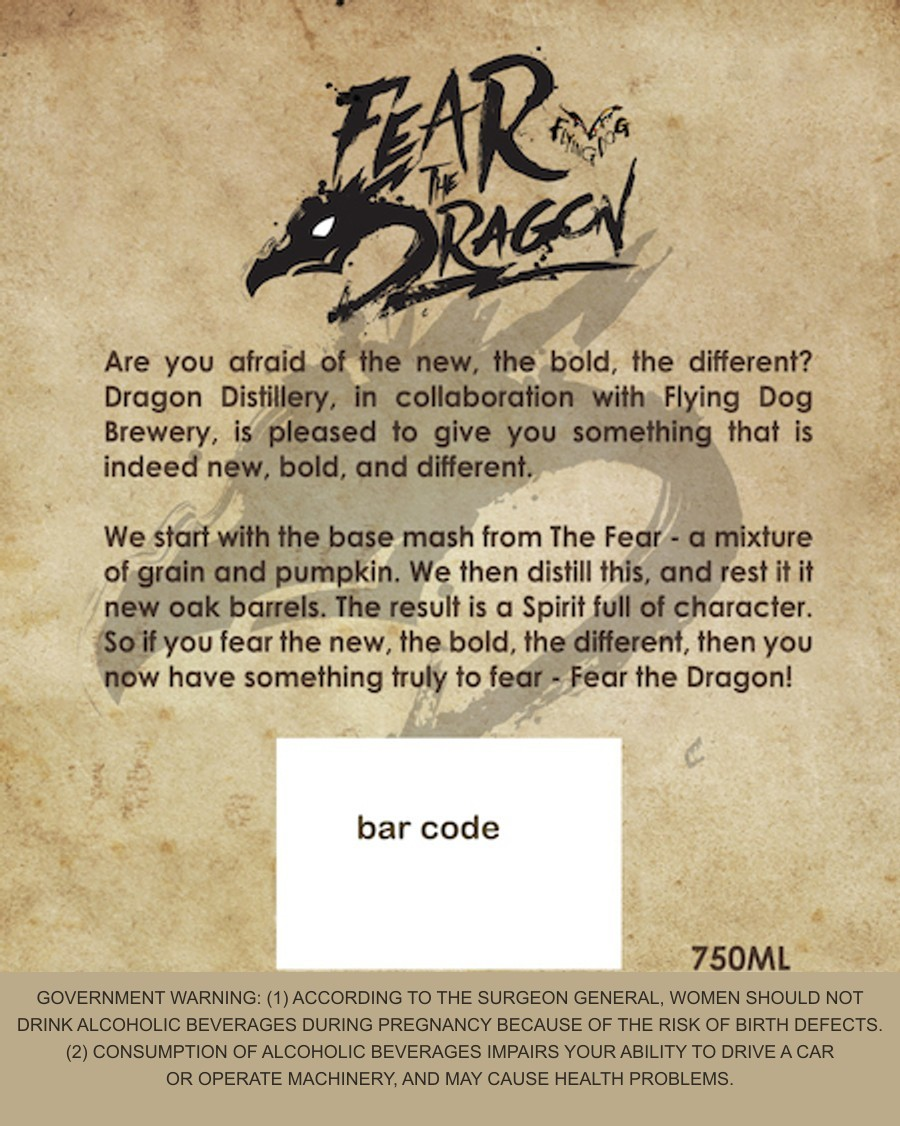
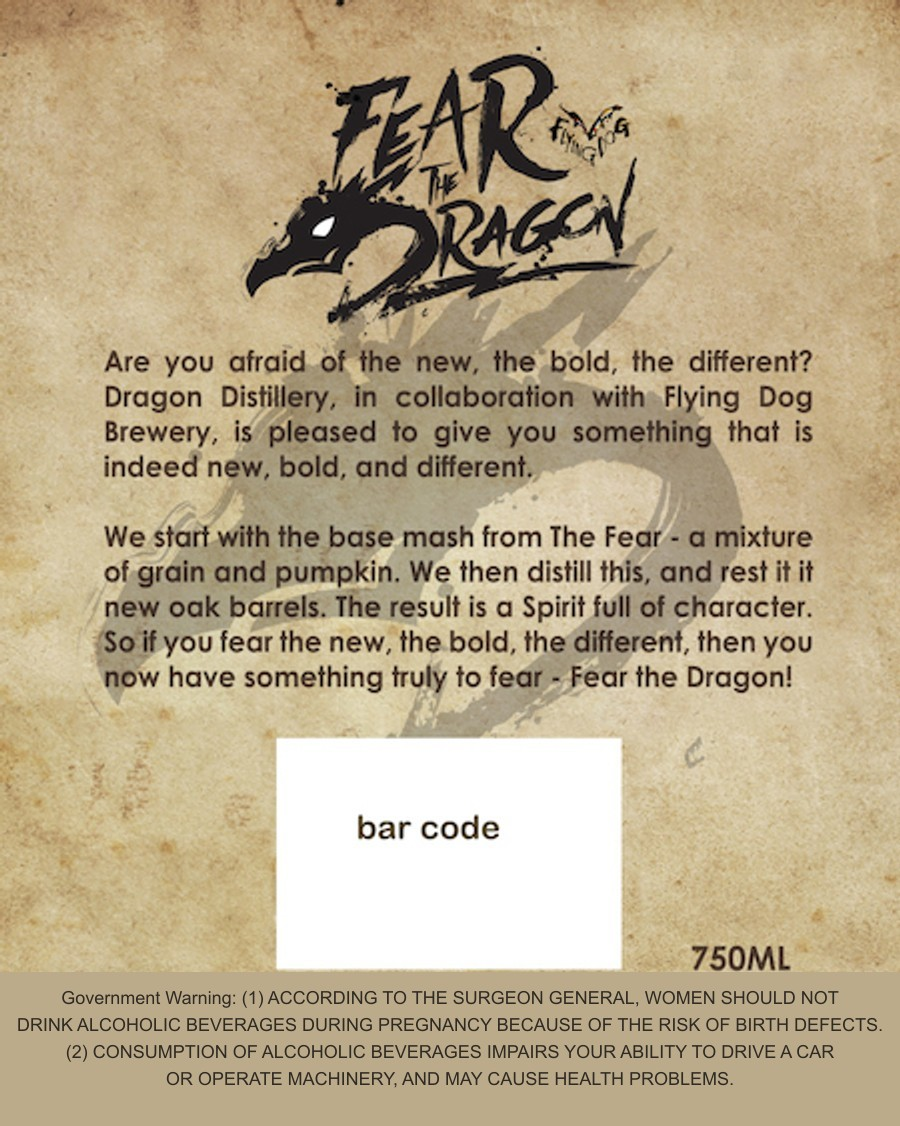
fix(demo): the defect variant fails on title case - deterministic live, no escalation tax
Measured live, a weight-only bold defect is judged "could not be verified as
bold": the tri-state hedges on a pure visual weight call, routes to review
(the conservative design working exactly as intended), and pays the
warning-focus escalation ~13s trying for a better look. Honest, but a mushy
headline demo. The defect variant now prints "Government Warning:" in TITLE
CASE and regular weight: the caps rule is judged from the transcript, so a
live model hard-fails it deterministically and fast, and the demo's Reject is
a Reject. The fixture, README table, help drawer, and MANIFEST all state the
defect precisely; eval stays 24/24.

Changed region(s): [[0.0311, 0.8703, 0.9644, 0.9014]]

diff --git a/src/app/ui/HelpButton.tsx b/src/app/ui/HelpButton.tsx
@@ -30,14 +30,14 @@ const SAMPLES: { name: string; expect: string; detail: string; files: { href: st
       "warning from the back, and every field matches the application.",
   },
   {
-    name: "Non-bold government warning",
+    name: "Defective warning prefix",
     expect: "Reject",
     files: [{ href: "/samples/fear-the-dragon-warning-not-bold-back.jpg", label: "edited back label" }],
     detail:
-      'Upload the same front with this back: the warning text is word-for-word correct and all ' +
-      'caps, but the "GOVERNMENT WARNING:" prefix is printed in regular weight. 27 CFR ' +
-      "16.22(a)(2) requires it in bold type, a hard fail. (An edited test image; the real " +
-      "product's label is compliant.)",
+      'Upload the same front with this back: the warning wording is correct, but the prefix is ' +
+      'printed "Government Warning:" in title case and regular weight. 27 CFR 16.22(a)(2) ' +
+      "requires it in capital letters and bold type, a hard fail. (An edited test image; the " +
+      "real product's label is compliant.)",
   },
 ];
 

diff --git a/src/app/VerifyForm.tsx b/src/app/VerifyForm.tsx
@@ -678,9 +678,10 @@ export function VerifyForm({ mockMode = false }: { mockMode?: boolean }) {
             </a>
             . To see a Reject, swap in the{" "}
             <a href="/samples/fear-the-dragon-warning-not-bold-back.jpg" download className={linkClass}>
-              non-bold-warning back
+              defective-warning back
             </a>{" "}
-            (an edited test image; the real label is compliant).
+            (its prefix prints &quot;Government Warning:&quot; in title case and regular weight; an
+            edited test image, the real label is compliant).
           </p>
         )}
         {/* The read's live status, co-located with the slot the user just dropped into (all other

diff --git a/src/app/VerifyForm.test.tsx b/src/app/VerifyForm.test.tsx
@@ -487,7 +487,7 @@ describe("VerifyForm — verify against the application", () => {
       (q.getByRole("link", { name: /^back label/i }) as HTMLAnchorElement).getAttribute("href"),
     ).toBe("/samples/fear-the-dragon-back.jpg");
     expect(
-      (q.getByRole("link", { name: /non-bold-warning back/i }) as HTMLAnchorElement).getAttribute("href"),
+      (q.getByRole("link", { name: /defective-warning back/i }) as HTMLAnchorElement).getAttribute("href"),
     ).toBe("/samples/fear-the-dragon-warning-not-bold-back.jpg");
     dropLabelImage(container);
     await q.findByText("Complete the application to verify");

diff --git a/eval/fixtures/images/MANIFEST.md b/eval/fixtures/images/MANIFEST.md
@@ -53,7 +53,7 @@ hermetic-keying explanation.
 | 16 | `sangria-import-no-country.svg` | `eval/fixtures/images/sangria-import-no-country.svg` | `sangria-import-no-country-review` | Portrait label, ~600x800; clean | Brand **Sailor Sally's** (Sailor Sally's Cellars, Valencia, Spain); class/type **Sangria**; **8.5% ALC/VOL (17 PROOF)**; net **750 mL**; importer line **"IMPORTED BY: SEA TRADER IMPORTS, MIAMI, FL."**; full canonical warning, ALL-CAPS **bold** prefix. NO "Product of Spain" statement anywhere — the import is inferred (importer line + foreign producer address) and the missing country-of-origin statement is the sole defect. | **review** |
 | 17 | `fear-the-dragon-front.jpg` | `eval/fixtures/images/fear-the-dragon-front.jpg` | `fear-the-dragon-front-panel-alone` | **REAL artwork** (1200x1200, Dragon Distillery x Flying Dog), README walkthrough + `public/samples/` | Front panel of the demo PAIR: brand **Fear the Dragon**; "Spirit Distilled from Grain and Pumpkin"; statement of composition; **50% ALC./VOL. (100 PROOF)**; responsibility line "Distilled & Bottled by Dragon Distillery, LLC Frederick, MD". No net contents, no warning (both live on the back), so ALONE it must never approve; the walkthrough uploads front+back together for the joint-read approve. | **review** |
 | 18 | `fear-the-dragon-back.jpg` | `eval/fixtures/images/fear-the-dragon-back.jpg` | `fear-the-dragon-back-panel-alone` | **REAL artwork** (900x1126), README walkthrough + `public/samples/` | Back panel of the demo pair: marketing text, **750ML**, and the full statutory warning printed ENTIRELY in caps with a **bold** `GOVERNMENT WARNING:` prefix (the body's case folds; only the prefix carries the caps+bold rule). The warning block is RE-RENDERED at print fidelity by the make-script (the 450px source's bold differential was honestly unverifiable, even by the live judge + focus escalation); the two back variants differ ONLY in the prefix weight. Alone it lacks class/alcohol/responsibility, so completeness routes it to review. | **review** |
-| 19 | `fear-the-dragon-warning-not-bold-back.jpg` | `eval/fixtures/images/fear-the-dragon-warning-not-bold-back.jpg` | `fear-the-dragon-warning-not-bold-reject` | **EDITED TEST ARTIFACT** (built by `scripts/make-fear-the-dragon-demo.cjs`; the real label is compliant) | Identical to #18 EXCEPT the warning block is re-rendered with the `GOVERNMENT WARNING:` prefix in **regular weight** (still all caps, wording verbatim). The sole defect 27 CFR 16.22(a)(2) hard-fails on; the only fixture isolating the bold rule. | **reject** |
+| 19 | `fear-the-dragon-warning-not-bold-back.jpg` | `eval/fixtures/images/fear-the-dragon-warning-not-bold-back.jpg` | `fear-the-dragon-warning-not-bold-reject` | **EDITED TEST ARTIFACT** (built by `scripts/make-fear-the-dragon-demo.cjs`; the real label is compliant) | Identical to #18 EXCEPT the prefix prints **`Government Warning:` in title case and regular weight** (wording verbatim). Title case is deliberate: the caps rule is judged from the TRANSCRIPT so a live model hard-fails deterministically, while a weight-only defect measured live as "could not be verified as bold" and routed to review (the conservative tri-state working as designed). | **reject** |
 | 17 | `jolly-jerrys-region-origin.svg` | `eval/fixtures/images/jolly-jerrys-region-origin.svg` | `region-origin-not-country-review` | Portrait label, ~600x800; clean | Brand **JOLLY JERRY'S** (Jolly Jerry's Distillery, Bridgetown, Barbados); class/type **Rum**; **40% ALC/VOL (80 PROOF)**; net **750 mL**; origin line **"IMPORTED FROM THE CARIBBEAN"**; full canonical warning, ALL-CAPS **bold** prefix. The origin statement names a REGION, not a country — it matches the application verbatim, and the defect is the statement itself (CBP marking requires the country, e.g. "Product of Barbados"). | **review** |
 
 > Dimensions note: ~600x800 is a guideline that matches the placeholder canvas. Real photos may be

diff --git a/README.md b/README.md
@@ -34,7 +34,7 @@ for reviewers in
 | Sample product | The defect on the label | What to enter | Expected verdict |
 | --- | --- | --- | --- |
 | Fear the Dragon, clean pair: [front](eval/fixtures/images/fear-the-dragon-front.jpg) + [back](eval/fixtures/images/fear-the-dragon-back.jpg) | none (brand and alcohol on the front; net contents and the warning on the back) | accept all suggestions | **Approve** |
-| The same front + the [non-bold-warning back](eval/fixtures/images/fear-the-dragon-warning-not-bold-back.jpg) | the "GOVERNMENT WARNING:" prefix is printed in regular weight (an edited test image; the real label is compliant) | accept all suggestions | **Reject**. 27 CFR 16.22(a)(2) requires the prefix in bold type |
+| The same front + the [defective-warning back](eval/fixtures/images/fear-the-dragon-warning-not-bold-back.jpg) | the prefix prints "Government Warning:" in title case and regular weight (an edited test image; the real label is compliant) | accept all suggestions | **Reject**. 27 CFR 16.22(a)(2) requires the all-caps bold prefix |
 
 You never type the government warning: the tool compares the label's warning text word for word
 against the statutory text automatically. (Live model reads can occasionally vary; locally, the
